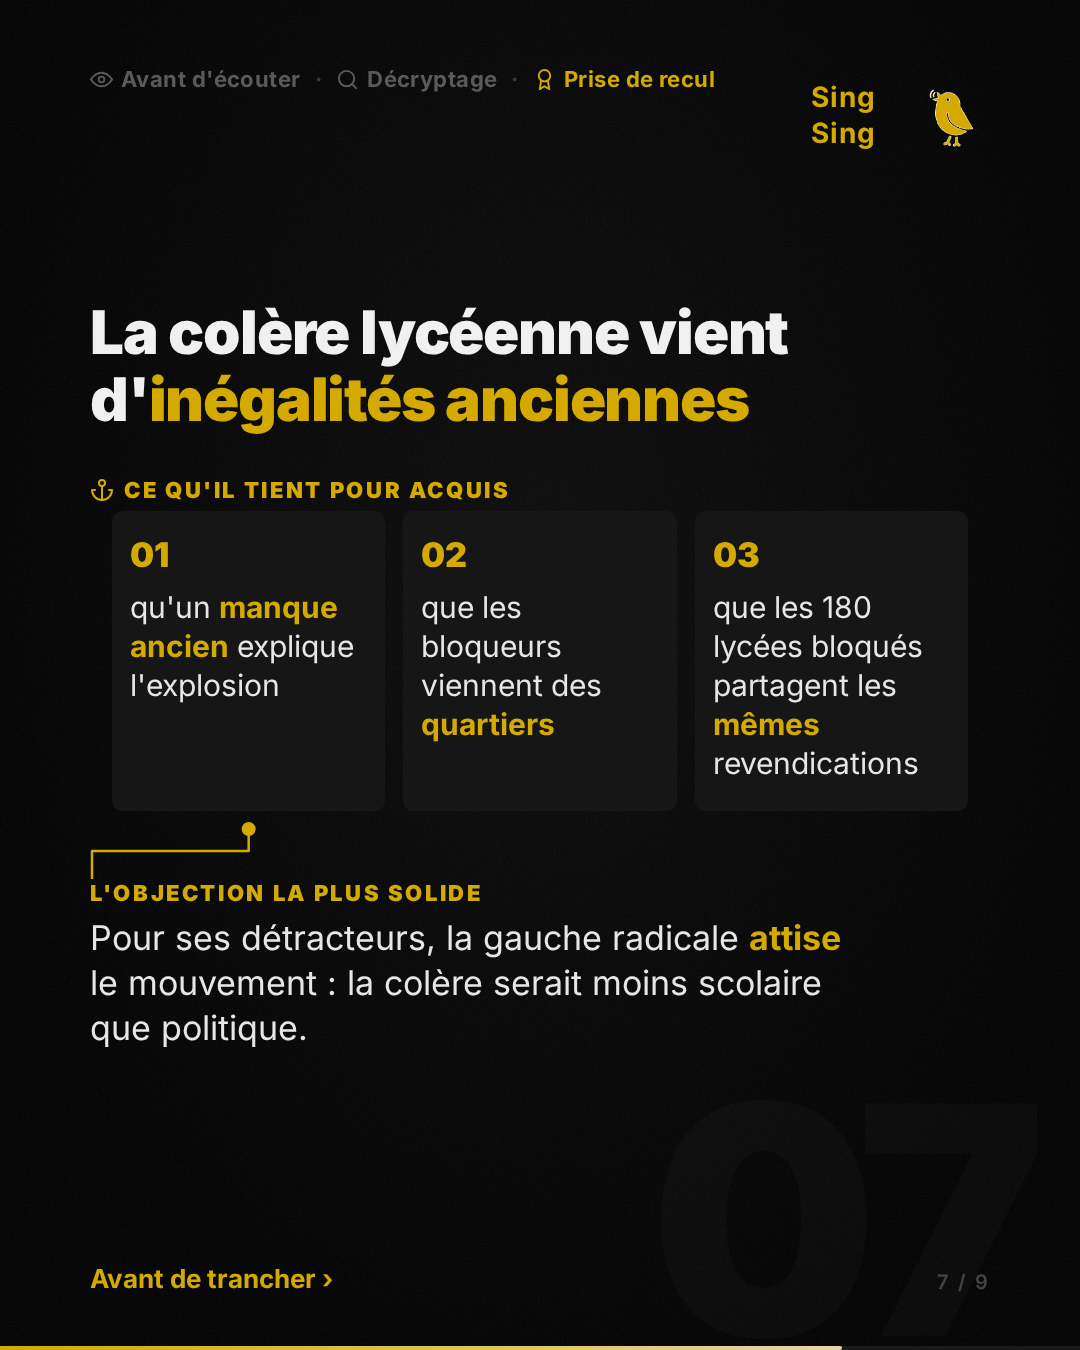
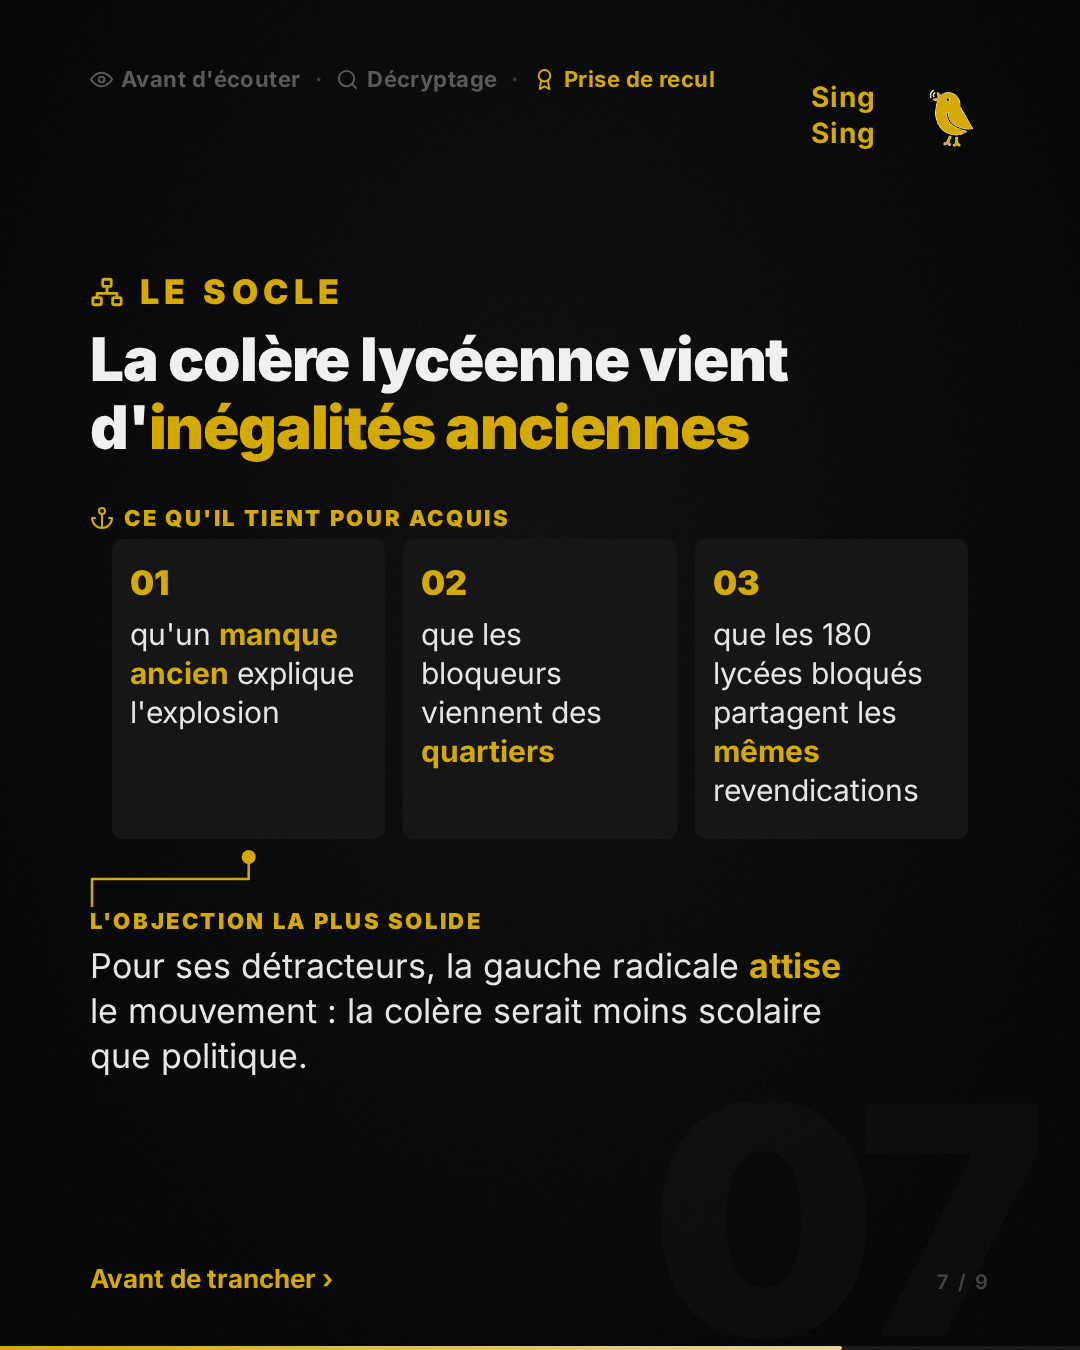
fix(carousel): slide 7 gets its kicker back, « Le socle »
The only slide without a gold kicker above its title; the thesis stays the
title, unframed.

Changed region(s): [[0.0611, 0.1867, 0.7333, 0.5911], [0.0611, 0.5911, 0.7944, 0.8089], [0.6417, 0.4044, 0.8556, 0.5911]]

diff --git a/samples/podcasts/podcast_1/instagram_carousel_optimized/html/07_socle.html b/samples/podcasts/podcast_1/instagram_carousel_optimized/html/07_socle.html
@@ -407,13 +407,13 @@ body {
 .trk.on { color: #d4aa00; }
 .trk svg { width: 23px; height: 23px; stroke: currentColor; fill: none; stroke-width: 2; stroke-linecap: round; stroke-linejoin: round; }
 .trk-sep { color: #3a3a3a; }
-/* The argument drawn as a structure: the thesis as the slide's title, the
+/* The argument drawn as a structure: under « Le socle », the thesis as the title, the
    présupposés it rests on as equal pillars, the objection below.
    When the objection names the pillar it weakens (`target`, 1-based), a thin
    leader line runs from the objection to a dot under that pillar, like a note
    on a diagram: the link is drawn, and no pillar outranks the others. */
 .stage { flex: 1; display: flex; flex-direction: column; justify-content: center; }
-.head { font-size: 60px; font-weight: 900; line-height: 1.12; letter-spacing: -0.02em; color: #f0f0f0; text-wrap: balance; }
+.head { font-size: 60px; font-weight: 900; line-height: 1.12; letter-spacing: -0.02em; color: #f0f0f0; text-wrap: balance; margin-top: 14px; }
 .head strong, .pillar strong, .objection strong { color: #d4aa00; }
 .lbl { display: flex; align-items: center; gap: 10px; font-size: 22px; font-weight: 800; letter-spacing: .12em; text-transform: uppercase; color: #d4aa00; margin-bottom: 8px; }
 .lbl svg { width: 24px; height: 24px; stroke: #d4aa00; fill: none; stroke-width: 2; stroke-linecap: round; stroke-linejoin: round; }
@@ -446,6 +446,7 @@ body {
   <span class="trk on"><svg viewBox="0 0 24 24"><circle cx="12" cy="8" r="6"/><path d="M15.5 13.5 17 22l-5-3-5 3 1.5-8.5"/></svg>Prise de recul</span>
 </div>
   <div class="stage">
+    <span class="kick"><svg viewBox="0 0 24 24"><rect x="9" y="3" width="6" height="5" rx="1"/><rect x="2" y="16" width="6" height="5" rx="1"/><rect x="16" y="16" width="6" height="5" rx="1"/><path d="M12 8v5M5 13h14M5 13v3M19 13v3"/></svg>Le socle</span>
     <h1 class="head">La colère lycéenne vient d&#39;<strong>inégalités anciennes</strong></h1>
     <div class="under">
       <span class="lbl"><svg viewBox="0 0 24 24"><circle cx="12" cy="5" r="3"/><line x1="12" y1="22" x2="12" y2="8"/><path d="M5 12H2a10 10 0 0 0 20 0h-3"/></svg>Ce qu&#39;il tient pour acquis</span>

diff --git a/renderer/instagram_carousel/templates/article_carousel_optimized_v0/08_socle.html b/renderer/instagram_carousel/templates/article_carousel_optimized_v0/08_socle.html
@@ -4,13 +4,13 @@
 <meta charset="UTF-8">
 <style>
 {% include 'base.css' %}
-/* The argument drawn as a structure: the thesis as the slide's title, the
+/* The argument drawn as a structure: under « Le socle », the thesis as the title, the
    présupposés it rests on as equal pillars, the objection below.
    When the objection names the pillar it weakens (`target`, 1-based), a thin
    leader line runs from the objection to a dot under that pillar, like a note
    on a diagram: the link is drawn, and no pillar outranks the others. */
 .stage { flex: 1; display: flex; flex-direction: column; justify-content: center; }
-.head { font-size: 60px; font-weight: 900; line-height: 1.12; letter-spacing: -0.02em; color: #f0f0f0; text-wrap: balance; }
+.head { font-size: 60px; font-weight: 900; line-height: 1.12; letter-spacing: -0.02em; color: #f0f0f0; text-wrap: balance; margin-top: 14px; }
 .head strong, .pillar strong, .objection strong { color: #d4aa00; }
 .lbl { display: flex; align-items: center; gap: 10px; font-size: 22px; font-weight: 800; letter-spacing: .12em; text-transform: uppercase; color: #d4aa00; margin-bottom: 8px; }
 .lbl svg { width: 24px; height: 24px; stroke: #d4aa00; fill: none; stroke-width: 2; stroke-linecap: round; stroke-linejoin: round; }
@@ -36,6 +36,7 @@
   {% include '_brand.html' %}
   {% include '_tracker.html' %}
   <div class="stage">
+    <span class="kick"><svg viewBox="0 0 24 24">{{ ICONS.hierarchy | safe }}</svg>Le socle</span>
     <h1 class="head">{{ headline | md_bold }}</h1>
     {% if pillars %}<div class="under">
       {% if pres[0].label %}<span class="lbl"><svg viewBox="0 0 24 24">{{ ICONS[pres[0].icon] | safe }}</svg>{{ pres[0].label }}</span>{% endif %}
